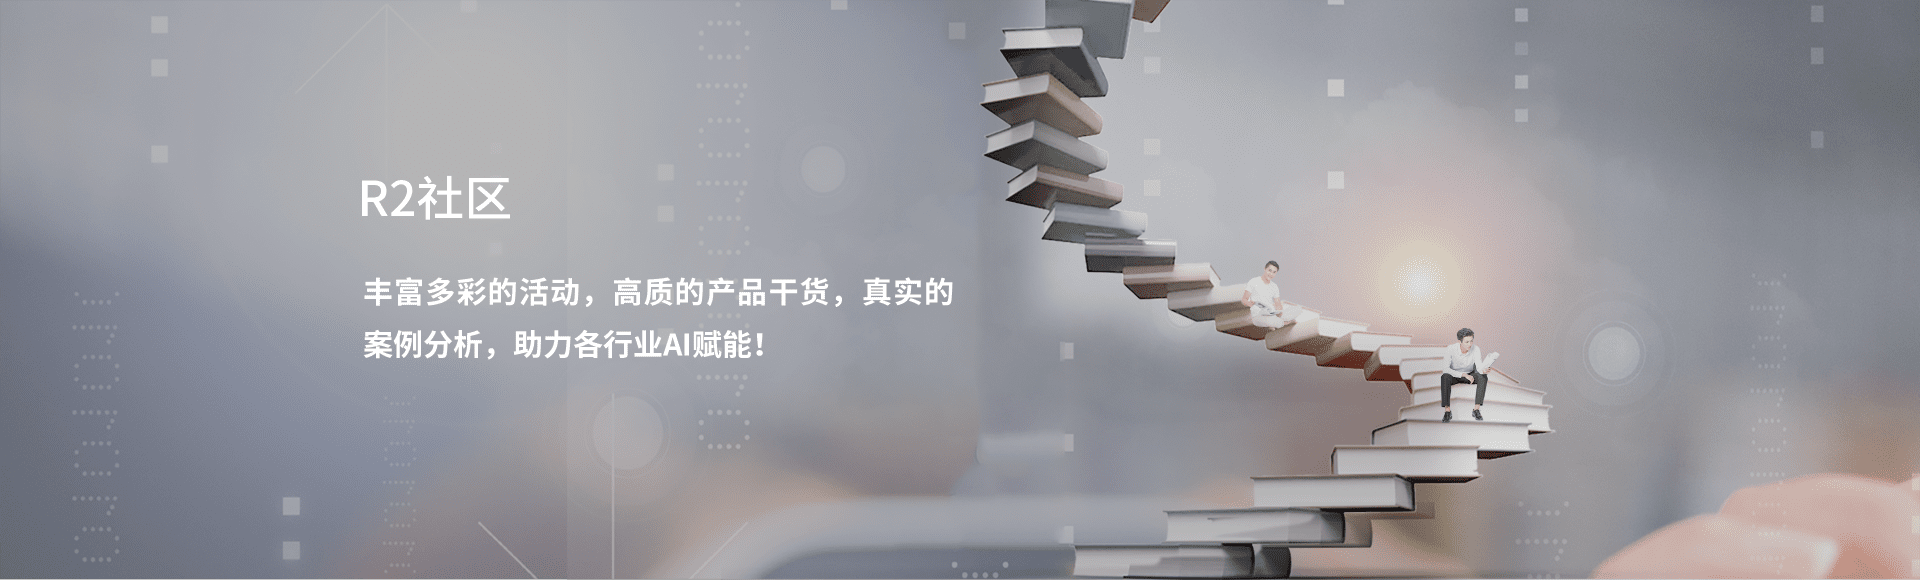
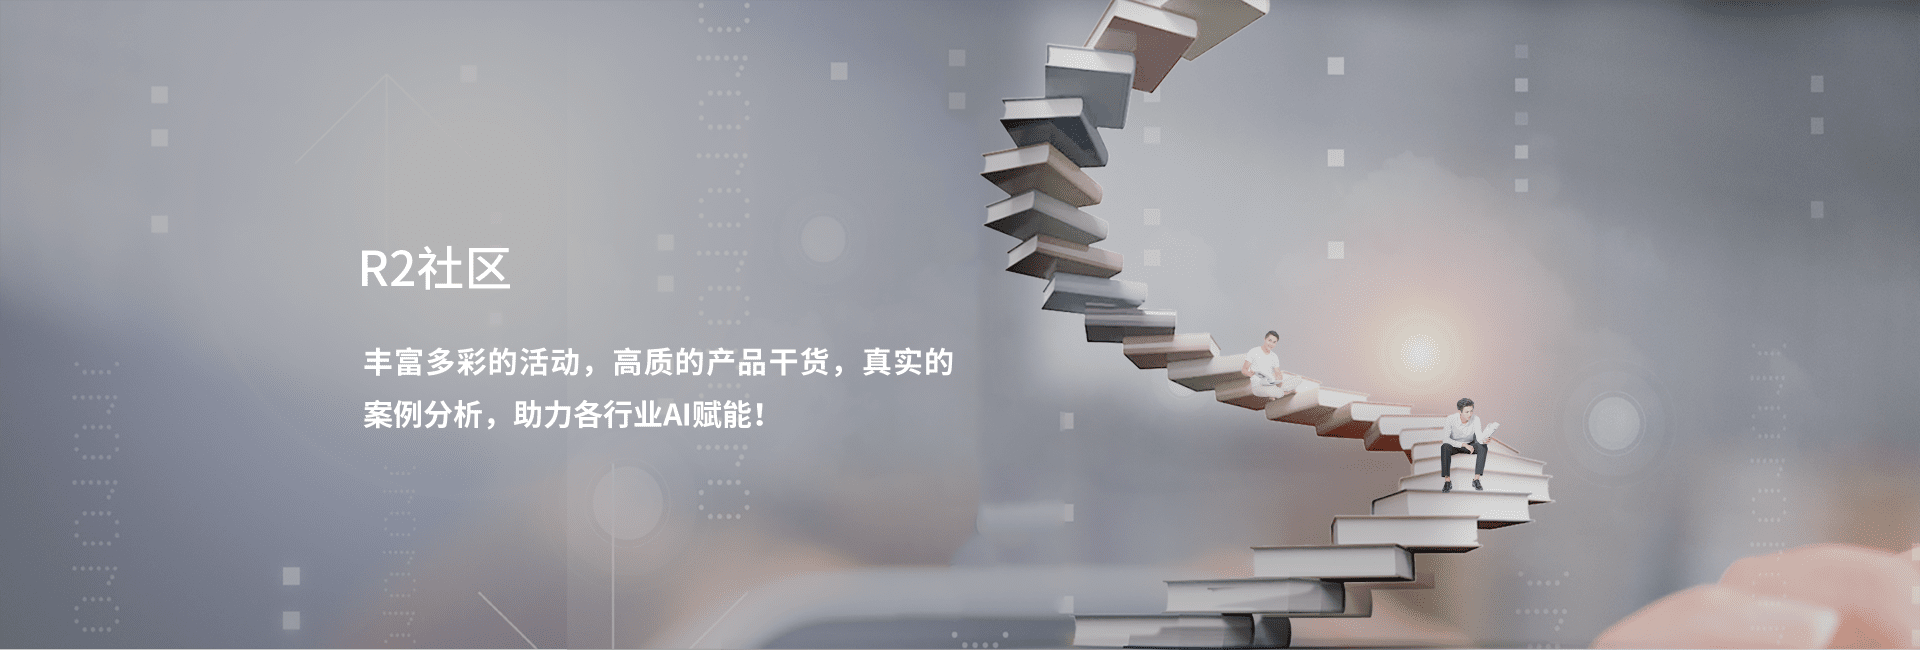
UI优化

diff --git a/src/frontend/pages/news/index.tsx b/src/frontend/pages/news/index.tsx
@@ -1,6 +1,6 @@
 import React from "react";
 
-import Banner from "./Banner";
+// import Banner from "./Banner";
 import Tabs from "./Tabs";
 import Pagination from "../../common/Pagination";
 
@@ -9,7 +9,9 @@ export default function(res: any) {
 
   return (
     <>
-      <Banner link={link}/>
+      {/*<Banner link={link}/>*/}
+      <img src={`/static/images/${link}/banner.png`} width='100%' alt=""/>
+      <a id='main' style={{display:'block'}}/>
       <Pagination/>
       <Tabs {...res}/>
     </>

diff --git a/src/frontend/pages/home/WhatDoWeDoZH.tsx b/src/frontend/pages/home/WhatDoWeDoZH.tsx
@@ -34,7 +34,8 @@ const useStyles = makeStyles({
         fontWight: "bold",
         display: "block",
         textAlign: "right",
-        marginBottom: "1.25rem"
+        marginBottom: "1.25rem",
+        fontWeight:'bold'
       },
       "& label": {
         textAlign: "left"
@@ -42,7 +43,7 @@ const useStyles = makeStyles({
       "& dd": {
         margin: "0 2.5rem"
       }
-    }
+    },
   }
 });
 

diff --git a/src/frontend/pages/news/Tabs.tsx b/src/frontend/pages/news/Tabs.tsx
@@ -104,7 +104,7 @@ export default function(res: any) {
             return <dd
               key={itm.key}
               className={route.includes(itm.key) ? classes.on : ""}>
-              <Link href={`/${link}/${itm.key}`}><a>{itm.name}</a></Link>
+              <Link href={`/${link}/${itm.key}#main`}><a>{itm.name}</a></Link>
             </dd>;
           })}
         </dl>

diff --git a/src/frontend/pages/news/List.tsx b/src/frontend/pages/news/List.tsx
@@ -46,7 +46,10 @@ const useStyles = makeStyles({
   },
   itemTitle: {
     marginBottom: "1.6875rem",
-    fontWeight: "bold"
+    fontWeight: "bold",
+    '&:hover':{
+      color:'#d3323e'
+    }
   },
   itemTitle2: {
     marginTop: "1.0525rem",
